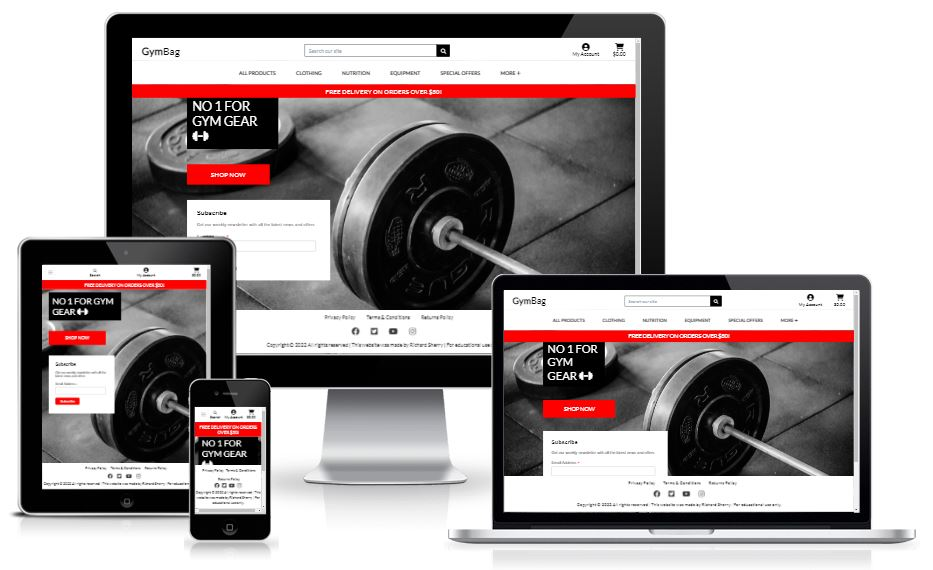
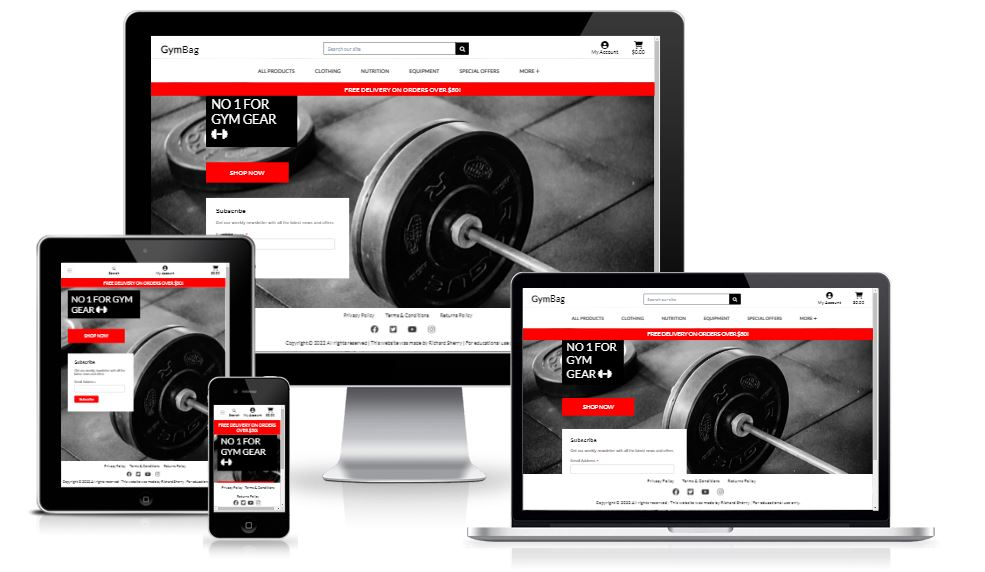
updated technologies used in readme

Changed region(s): [[0.0, 0.0, 0.9946, 0.9842]]

diff --git a/static/css/base.css b/static/css/base.css
@@ -2,13 +2,12 @@ html {
     height: 100%;
 }
 
-
 body {
     background: url('/media/weights_bar.jpg') no-repeat center center fixed;
     background-size: cover;
     height: calc(100vh - 164px);
     color: #555;
-    font-family: 'Lato';
+    font-family: 'Roboto Condensed', 'Lato', 'Arial', 'sans-serif';
 }
 
 h1 {
@@ -25,7 +24,6 @@ h1 {
     background: rgb(0, 0, 0) !important;
     z-index: -1;
 }
-
 
 .contact-container,
 .installation-container {
@@ -47,7 +45,6 @@ h1 {
     background-color: black;
     color: white;
 }
-
 
 /* from Bulma */
 .icon {
@@ -73,7 +70,6 @@ h1 {
     color: white !important;
     min-width: 260px !important;
 }
-
 
 .shop-now-button:hover,
 .shop-now-button:active,
@@ -203,7 +199,6 @@ input[name='q']::placeholder {
     outline: 0;
     box-shadow: 0 0 0 0.2rem rgb(204, 89, 89) !important;
 }
-
 
 /* ------ form styles ------  */
 

diff --git a/templates/base.html b/templates/base.html
@@ -22,7 +22,7 @@
     {% block corecss %}
     <link rel="stylesheet" href="https://cdn.jsdelivr.net/npm/bootstrap@4.6.2/dist/css/bootstrap.min.css"
         integrity="sha384-xOolHFLEh07PJGoPkLv1IbcEPTNtaed2xpHsD9ESMhqIYd0nLMwNLD69Npy4HI+N" crossorigin="anonymous">
-    <link rel="stylesheet" href="https://fonts.googleapis.com/css?family=Lato&display=swap">
+      <link rel="stylesheet" href="https://fonts.googleapis.com/css?family=Montserrat&display=swap">
     <link href="//cdn-images.mailchimp.com/embedcode/classic-071822.css" rel="stylesheet" type="text/css">
     <link rel="stylesheet" href="{% static 'css/base.css' %}">
     {% endblock %}

diff --git a/README.md b/README.md
@@ -71,7 +71,15 @@ I created a logic flowchart to help organise the site structure. The ERD (entity
   </details>
 
 ### Color Palette
+<details>
+  <summary>Click here to view Color Palette:</summary>
+
+  ![](docs/color_palette.JPG)
+
+  </details>
+
 ### Typography
+Roboto Condensed is the primary font taken from Google Fonts this font was chosen for its largely geometric font which features friendly and open curves. Fall back fonts are Lato, Arial & sans-serif.
 
 ## Features
 ### Existing Features
@@ -82,8 +90,34 @@ I created a logic flowchart to help organise the site structure. The ERD (entity
 ## Social Media
 
 ## Technologies Used
+
 ### Languages Used
+* [HTML5](https://developer.mozilla.org/en-US/docs/Web/HTML)
+* [CSS3](https://developer.mozilla.org/en-US/docs/Web/CSS)
+* [JavaScript](https://www.javascript.com/)
+* [Python](https://www.python.org/)
+
 ### Frameworks, Libraries & Programs Used
+* [Amazon S3](https://aws.amazon.com/s3/) service offered by Amazon Web Services that provides object storage through a web service interface.
+* [amiresponsive](http://ami.responsivedesign.is/) to see how responsive the site is on different devices.
+* [Balsamiq](https://balsamiq.com/) was used to create the Wireframes.
+* [Bootstrap](https://getbootstrap.com/docs/4.6/getting-started/introduction/) v4.6 was used to help build responsive, mobile-first design.
+* [Color-hex](https://www.color-hex.com/) once I identified the colors I wanted I used color-hex to generate the palette.
+* [Django](https://www.djangoproject.com/) free and open-source, Python-based web framework that follows the model–template–views architectural pattern.
+* [Font Awesome](https://fontawesome.com/) was used for icons for aesthetic and UX purposes on the buttons.
+* [Git](https://git-scm.com/) was used for version control by utilizing the Gitpod terminal to commit to Git and Push to GitHub.
+* [GitHub](https://github.com/) GitHub is used to store the projects code after being pushed from Git.
+* [Gitpod](https://www.gitpod.io/) An online IDE linked to the GitHub repository used to write my code.
+* [Google Chrome Dev tools](https://developer.chrome.com/docs/devtools/) for debugging.
+* [Google Fonts](https://fonts.google.com/about) for typography.
+* [Google Lighthouse](https://developers.google.com/web/tools/lighthouse) used for audits to measure the quality of web pages.
+* [Heroku](https://www.heroku.com/) used to deploy this app, a cloud platform as a service supporting several programming languages.
+* [Pexels](https://www.pexels.com/) Images for this project were sourced from Pexels.
+* [Stripe]() Integrated with Stripe to faciliate online payments.
+* [SQLite](https://www.sqlite.org/index.html) database used in local development was a SQLLite database.
+* [Unsplash](https://unsplash.com/) Images for this project were sourced from Unsplash.
+* [WAVE](https://wave.webaim.org/extension/) Browser Extension testing.
+* [a11y](https://color.a11y.com/) Color Contrast Accessibility Validator.
 
 ## Testing
 ### Validation Testing
